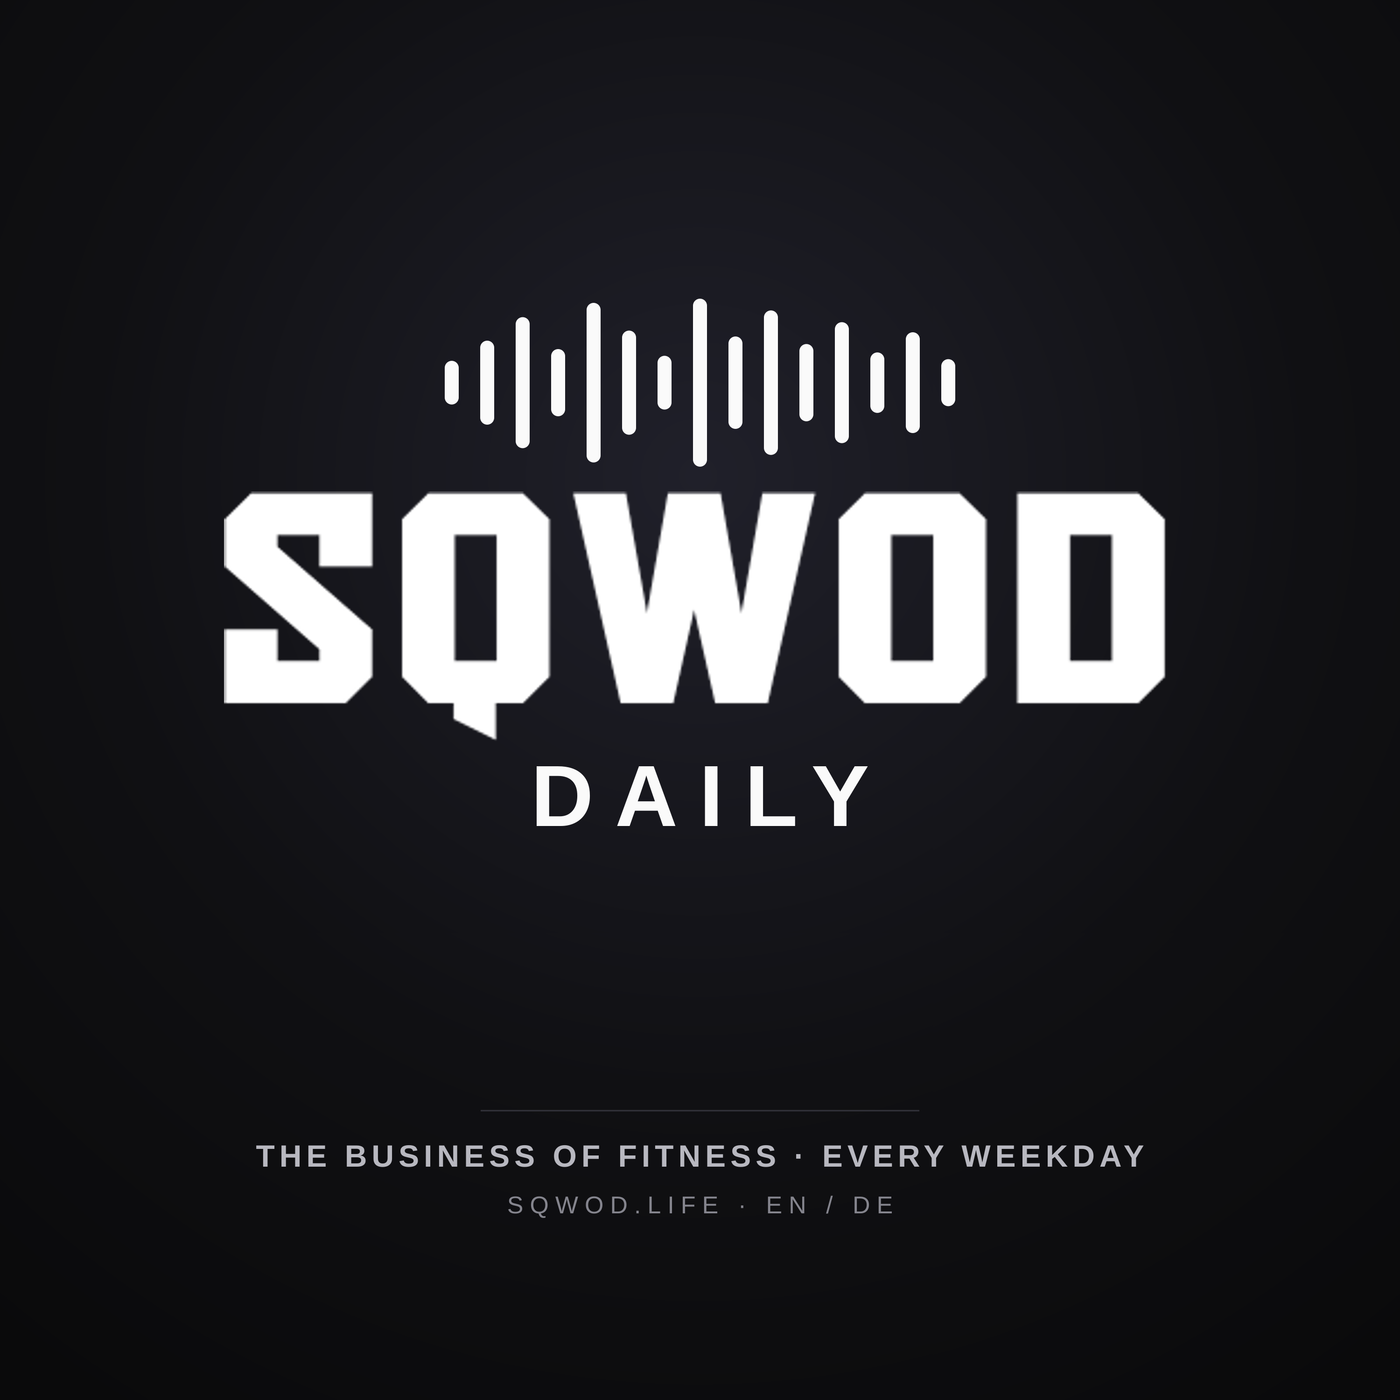
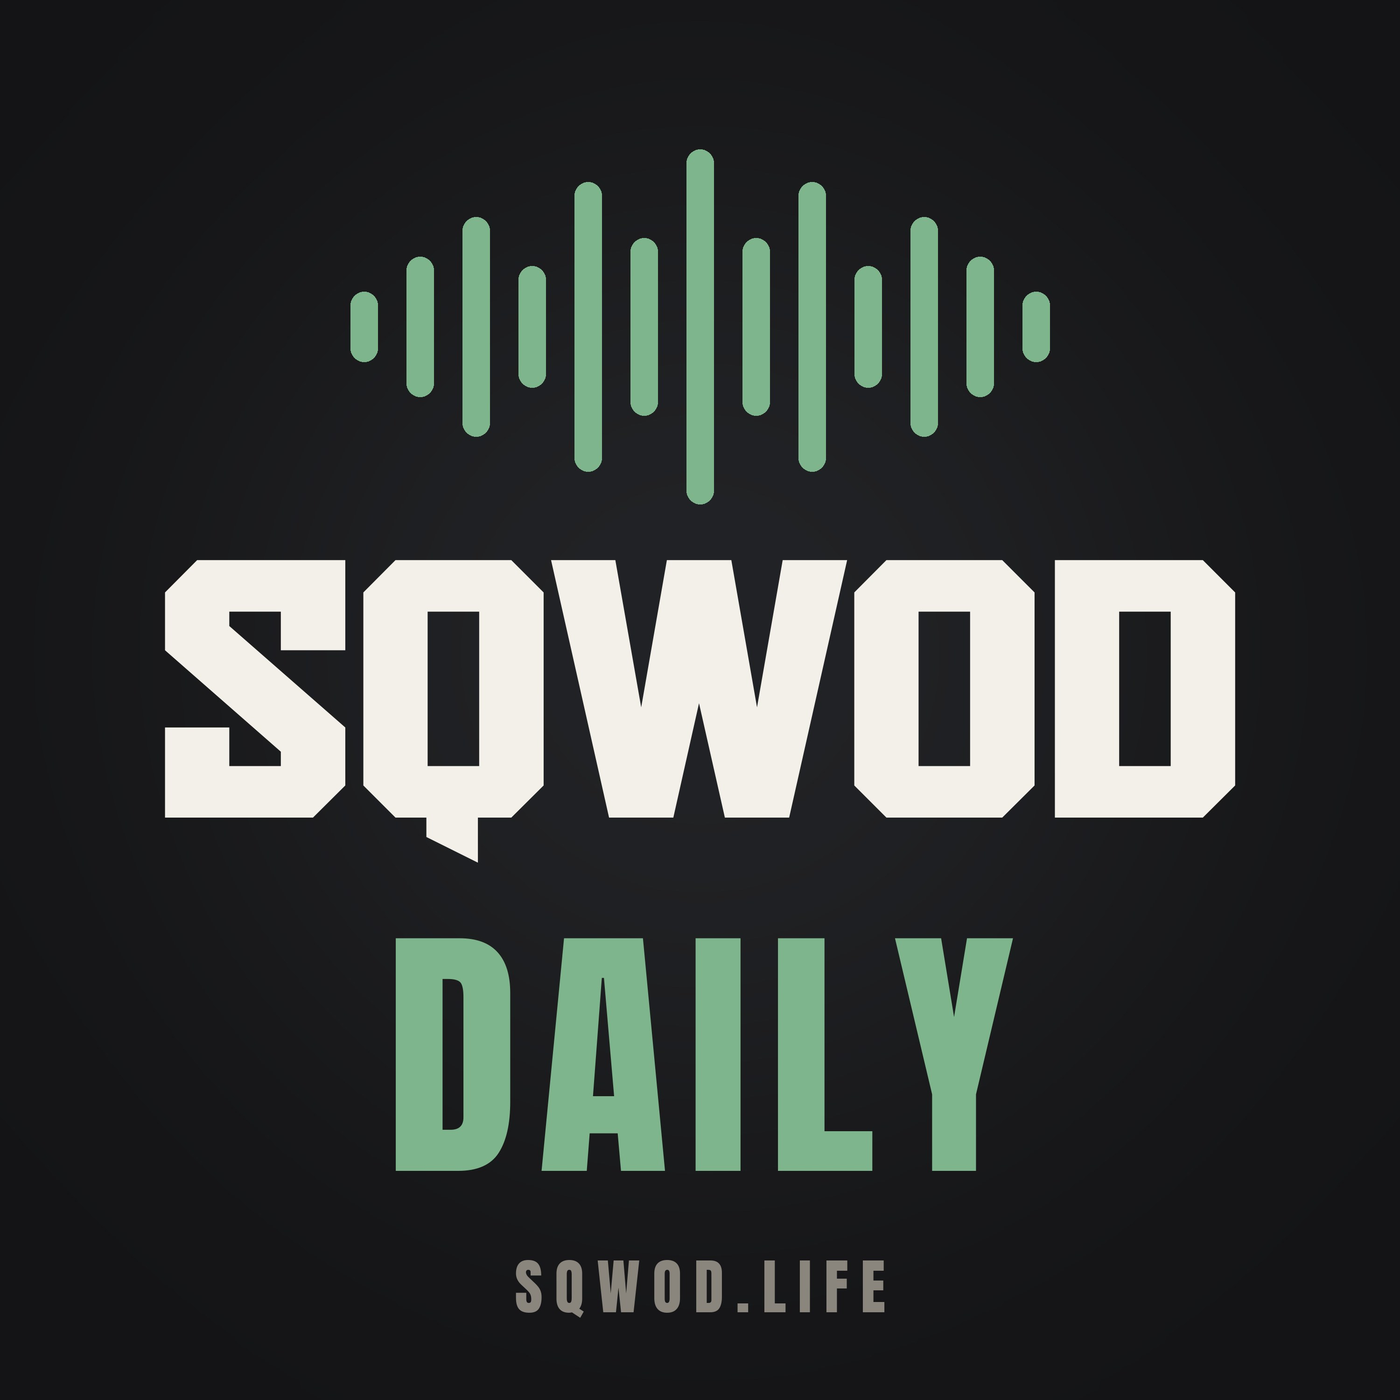
Podcast: new EN/DE covers, per-language show links, both Spotify shows
New cover art per show in the site palette (EN, and DE marked Deutsch), replacing the old cover that carried another brand's tagline. Feeds point to the new covers. Show links are now per language, with both Spotify shows added. Default share image updated to the new cover.

diff --git a/site/src/config/podcast.ts b/site/src/config/podcast.ts
@@ -1,8 +1,14 @@
 // Sqwod Daily — podcast show links + feed.
 // Once the show is live on Apple/Spotify, paste the real show URLs here and the
 // "Listen on" buttons across the site update everywhere at once.
-export const APPLE_URL = '#';
-export const SPOTIFY_URL = '#';
+// One show per language, so each language has its own Apple + Spotify link.
+// Leave '#' until a show is live: the button stays hidden.
+export const SHOWS: Record<string, { apple: string; spotify: string }> = {
+  en: { apple: '#', spotify: 'https://open.spotify.com/show/4PTiBNrqvFMMQzDj1ayvbP' },
+  de: { apple: '#', spotify: 'https://open.spotify.com/show/0uOmI3rSstJm4BsOf7y4O0' },
+};
+export const appleFor = (lang: string) => (SHOWS[lang] ?? SHOWS.en).apple;
+export const spotifyFor = (lang: string) => (SHOWS[lang] ?? SHOWS.en).spotify;
 
 // RSS feeds are auto-generated by automation/audio.mjs (EN + DE).
 export const rssFor = (lang: string) => (lang === 'de' ? '/podcast.de.xml' : '/podcast.xml');
